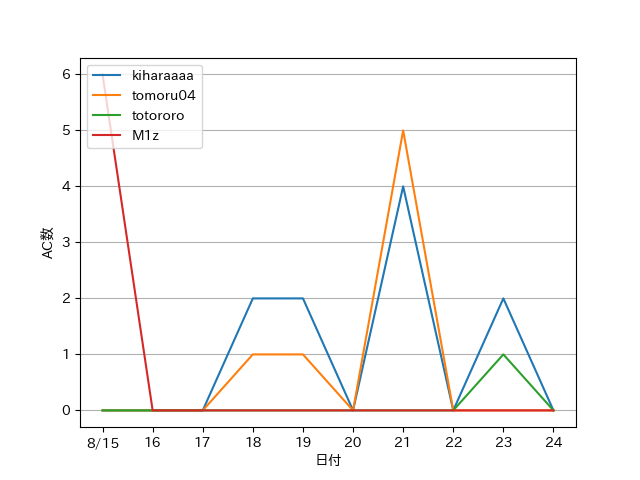
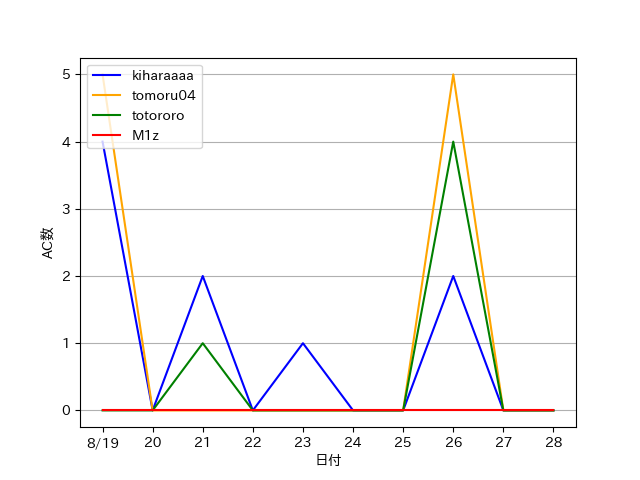
タイムゾーン変更、グラフ修正

diff --git a/main.py b/main.py
@@ -2,6 +2,7 @@ import discord
 from discord.ext import tasks
 import asyncio
 from datetime import datetime
+from zoneinfo import ZoneInfo
 import os
 
 from keep_alive import keep_alive
@@ -16,7 +17,7 @@ CHANNEL_ID_schedule = int(datalist[1][21:])
 CHANNEL_ID_submissions = int(datalist[2][24:])
 f.close()
 client = discord.Client(intents=discord.Intents.all())
-#keep_alive()
+keep_alive()
 
 # 定数定義
 ABC = 'AtCoder Beginner Contest'
@@ -28,7 +29,9 @@ AGC = 'AtCoder Grand Contest'
 # 開始時 -------------------------------------------------
 @client.event
 async def on_ready():
-  schedule.start()  # 月曜9時にリマインドする機能
+  schedule.start()
+
+
 # -------------------------------------------------------
 
 
@@ -38,6 +41,8 @@ async def on_message(message):
   # 受信したメッセージの送信者が自分の時
   if message.author.bot:
     return
+
+
 # -------------------------------------------------------
 
 
@@ -45,9 +50,9 @@ async def on_message(message):
 # その日のAC数を通知する機能 --------------------------------
 @tasks.loop(seconds=60)
 async def schedule():
-  now = datetime.now().strftime('%A:%H:%M')
+  now = datetime.now(ZoneInfo("Asia/Tokyo")).strftime('%A:%H:%M')
 
-  if now == 'Fryday:00:00':  # 毎週金曜9:00に今週のコンテスト予定を通知
+  if now == 'Fryday:09:00':  # 毎週金曜9:00に今週のコンテスト予定を通知
     contents = func_schedule.exe()
     channel = client.get_channel(CHANNEL_ID_schedule)
 
@@ -81,19 +86,20 @@ async def schedule():
       if flag:
         await channel.send(embed=embed)
 
-  if now[-5:] == '15:05':  # 毎日0:05にAC数を通知
+  if now[-5:] == '00:05':  # 毎日0:05にAC数を通知
     contents = func_submissions.exe()
     channel = client.get_channel(CHANNEL_ID_submissions)
 
-    n = datetime.now()
-    embed = discord.Embed(title= str(n.month) + "/" + str(n.day) + " AC数",
+    n = datetime.now(ZoneInfo("Asia/Tokyo"))
+    embed = discord.Embed(title=str(n.month) + "/" + str(int(n.day) - 1) +
+                          " AC数",
                           description=contents,
                           color=0x00ff00)
     await channel.send(embed=embed)
     await channel.send(file=discord.File('ACgraph.png'))
     return
 
-  if now[-5:] == '11:00':  # コンテストの1時間前にリマインド
+  if now[-5:] == '20:00':  # コンテストの1時間前にリマインド
     contents = func_schedule.exe()
     channel = client.get_channel(CHANNEL_ID_schedule)
 
@@ -132,7 +138,7 @@ async def schedule():
       if flag:
         await channel.send(message)
 
-  if now[-5:] == '11:50':  # コンテストの10分前にリマインド
+  if now[-5:] == '20:50':  # コンテストの10分前にリマインド
     contents = func_schedule.exe()
     channel = client.get_channel(CHANNEL_ID_schedule)
 
@@ -170,6 +176,8 @@ async def schedule():
 
       if flag:
         await channel.send(message)
+
+
 # -------------------------------------------------------
 
 # botを実行 ----------------------------------------------

diff --git a/func_submissions.py b/func_submissions.py
@@ -1,6 +1,7 @@
 # 提出結果を通知
 
 import datetime
+from zoneinfo import ZoneInfo
 import time
 import requests
 from bs4 import BeautifulSoup
@@ -8,12 +9,12 @@ import matplotlib.pyplot as plt
 import japanize_matplotlib
 
 def exe():
-    now = datetime.datetime.now()
-    now -= datetime.timedelta(hours=9)
-    d = datetime.datetime(now.year, now.month, now.day-1, 15, 0, 0)
+    now = datetime.datetime.now(ZoneInfo("Asia/Tokyo"))
+    d = datetime.datetime(now.year, now.month, now.day-1, 0, 0, 0)
     epoch_second = int(time.mktime(d.timetuple()))  # UNIX時間を取得
 
     lines=[]
+    colors = ['blue', 'orange', 'green', 'red']
     with open("setting.txt", "r") as f:
         lines = f.readlines()
     members = lines[3].split()
@@ -22,8 +23,8 @@ def exe():
 
     # X軸 (日付)
     X = []
-    now_tmp = datetime.datetime.now()
-    now_tmp -= datetime.timedelta(days=10)
+    now_tmp = datetime.datetime.now(ZoneInfo("Asia/Tokyo"))
+    now_tmp -= datetime.timedelta(days=11)
     now_month = now.month
     for i in range(10):
         now_tmp += datetime.timedelta(days=1)
@@ -37,6 +38,7 @@ def exe():
         X.append(x)
 
     list = []
+    handles = []
     epoch = epoch_second
     for i in range(num):
         epoch_second = epoch
@@ -90,13 +92,14 @@ def exe():
                     break
         Y.reverse()
         print(Y)
-        plt.plot(X, Y, label=members[i])
+        line, = plt.plot(X, Y, label=members[i], color=colors[i])
+        handles.append(line)
         list.append([members[i], cnt, streak])
     list = sorted(list, reverse=True, key=lambda x: x[1])
     plt.xlabel('日付')
     plt.ylabel('AC数')
     plt.grid(axis='y')
-    plt.legend(loc="upper left")
+    plt.legend(handles, members, loc="upper left")
     plt.savefig('ACgraph.png')
 
     text = ""
